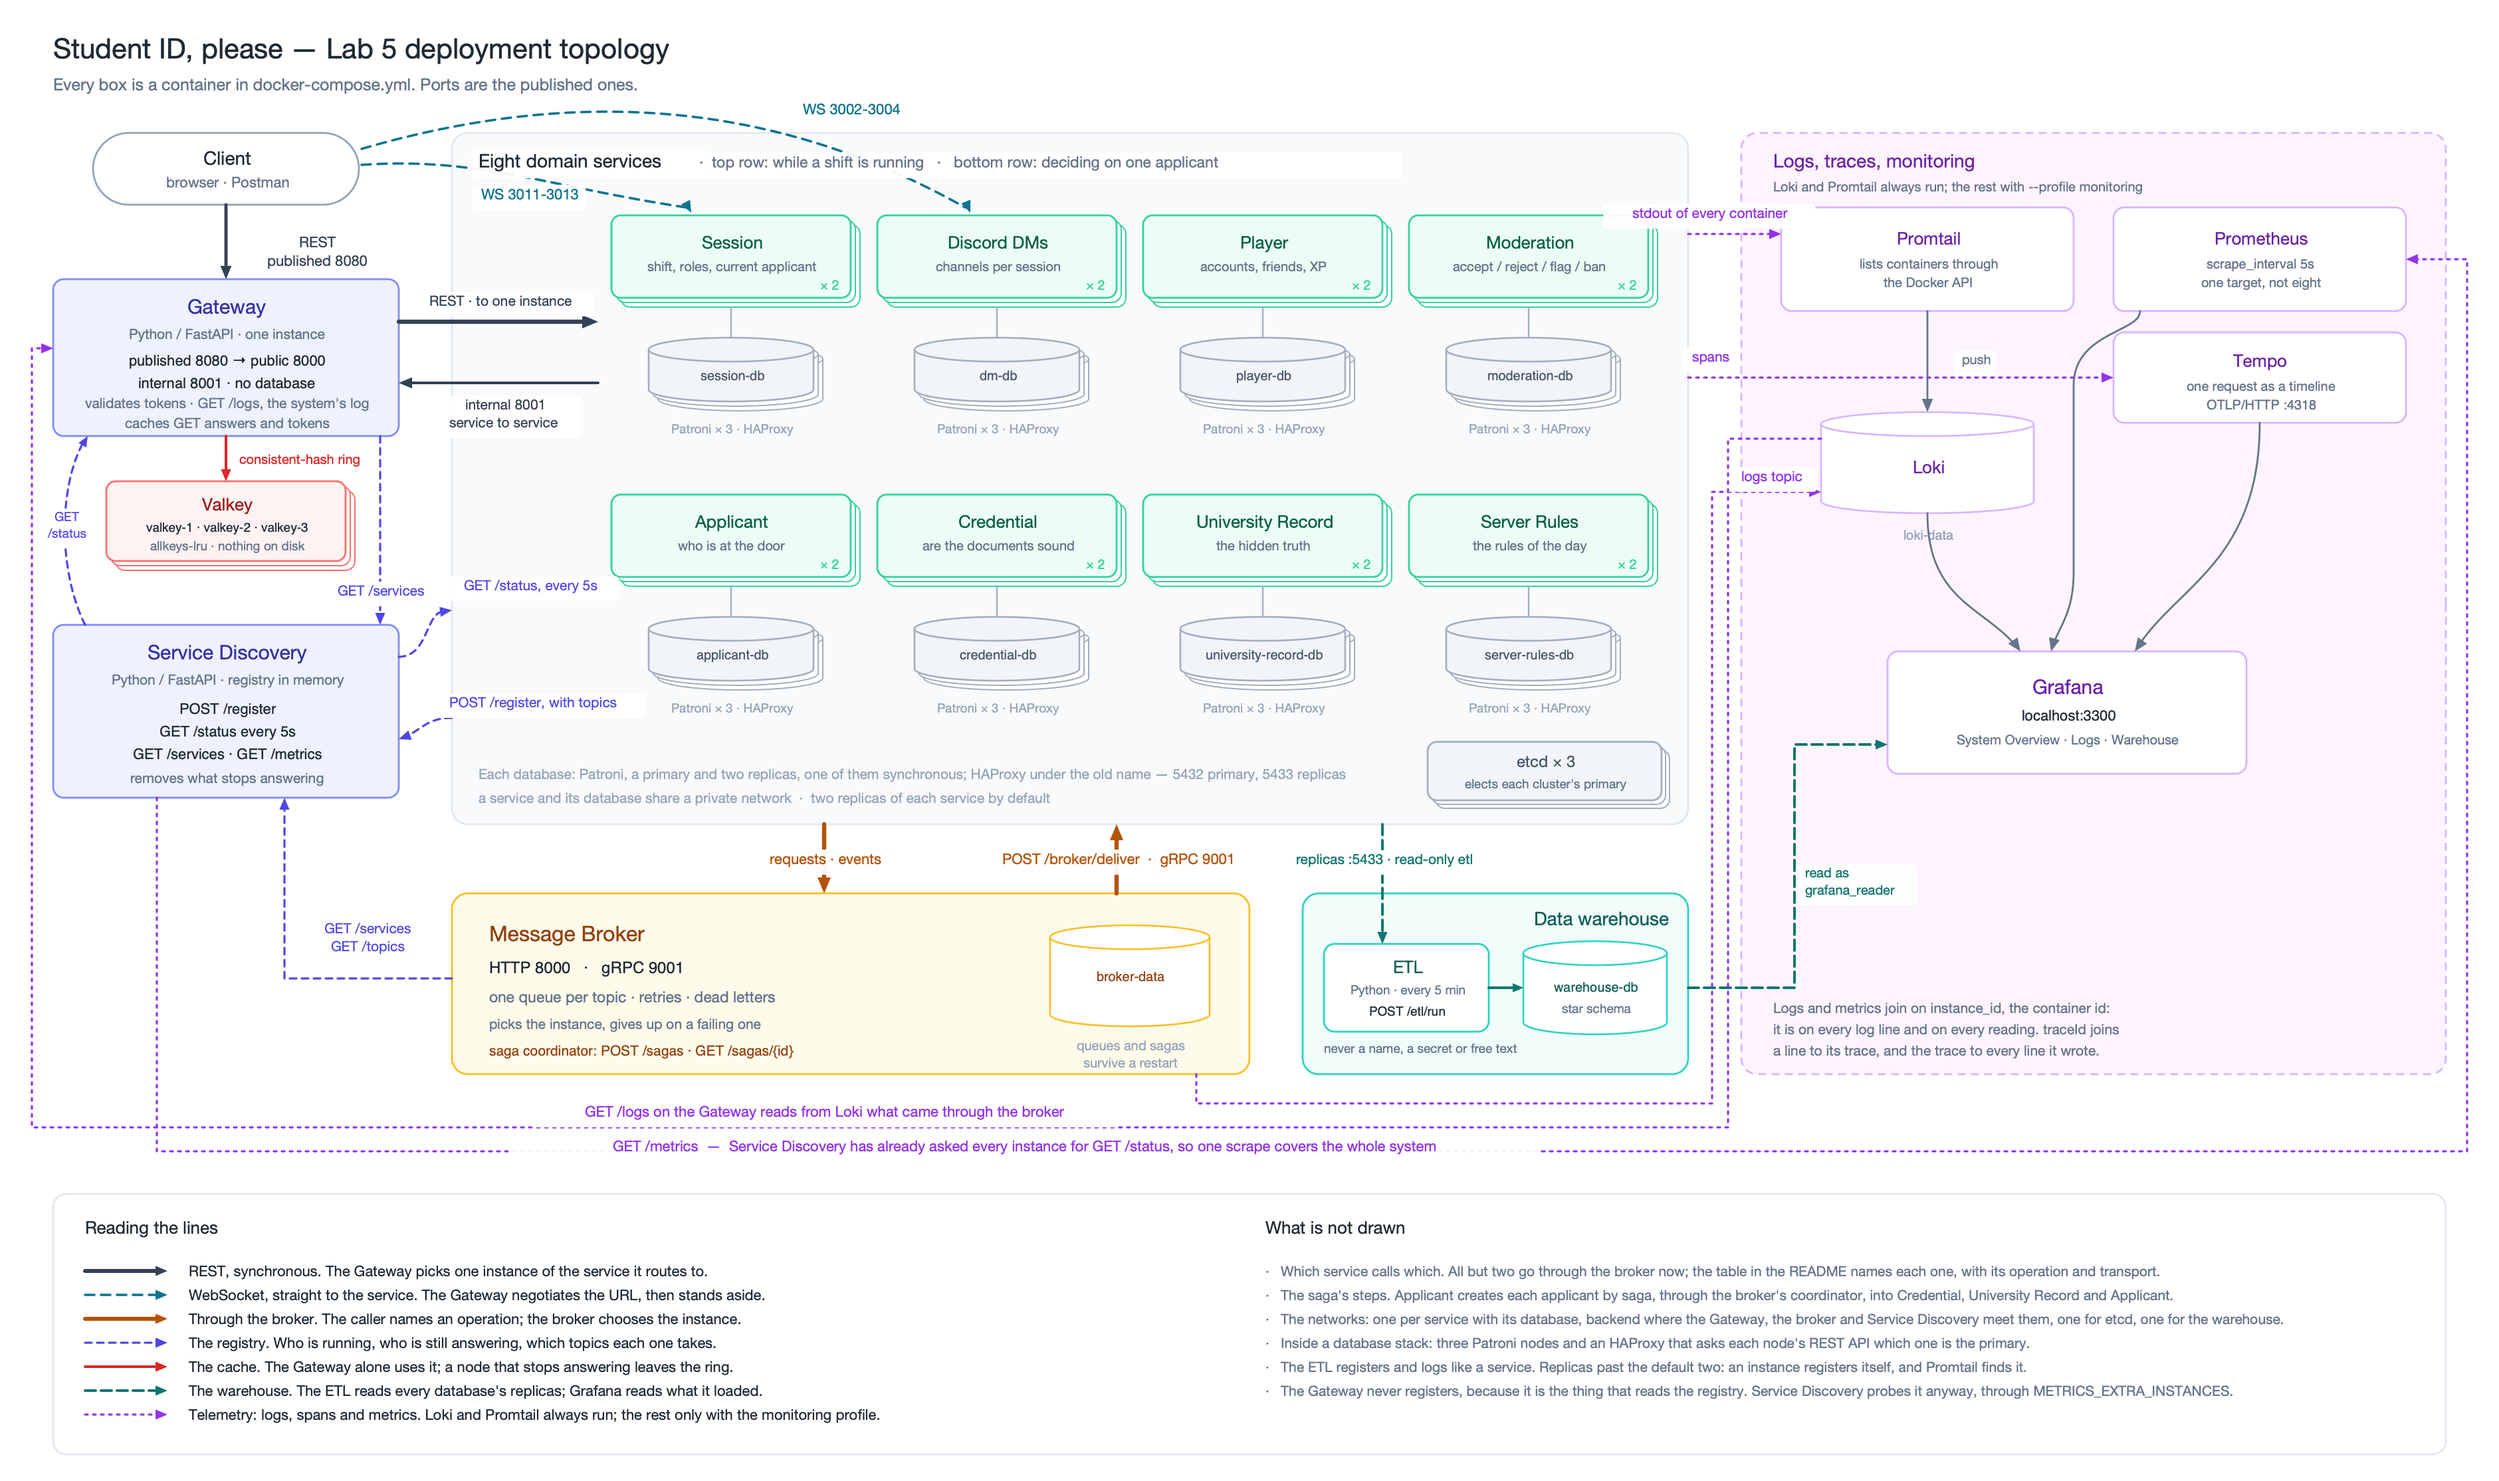
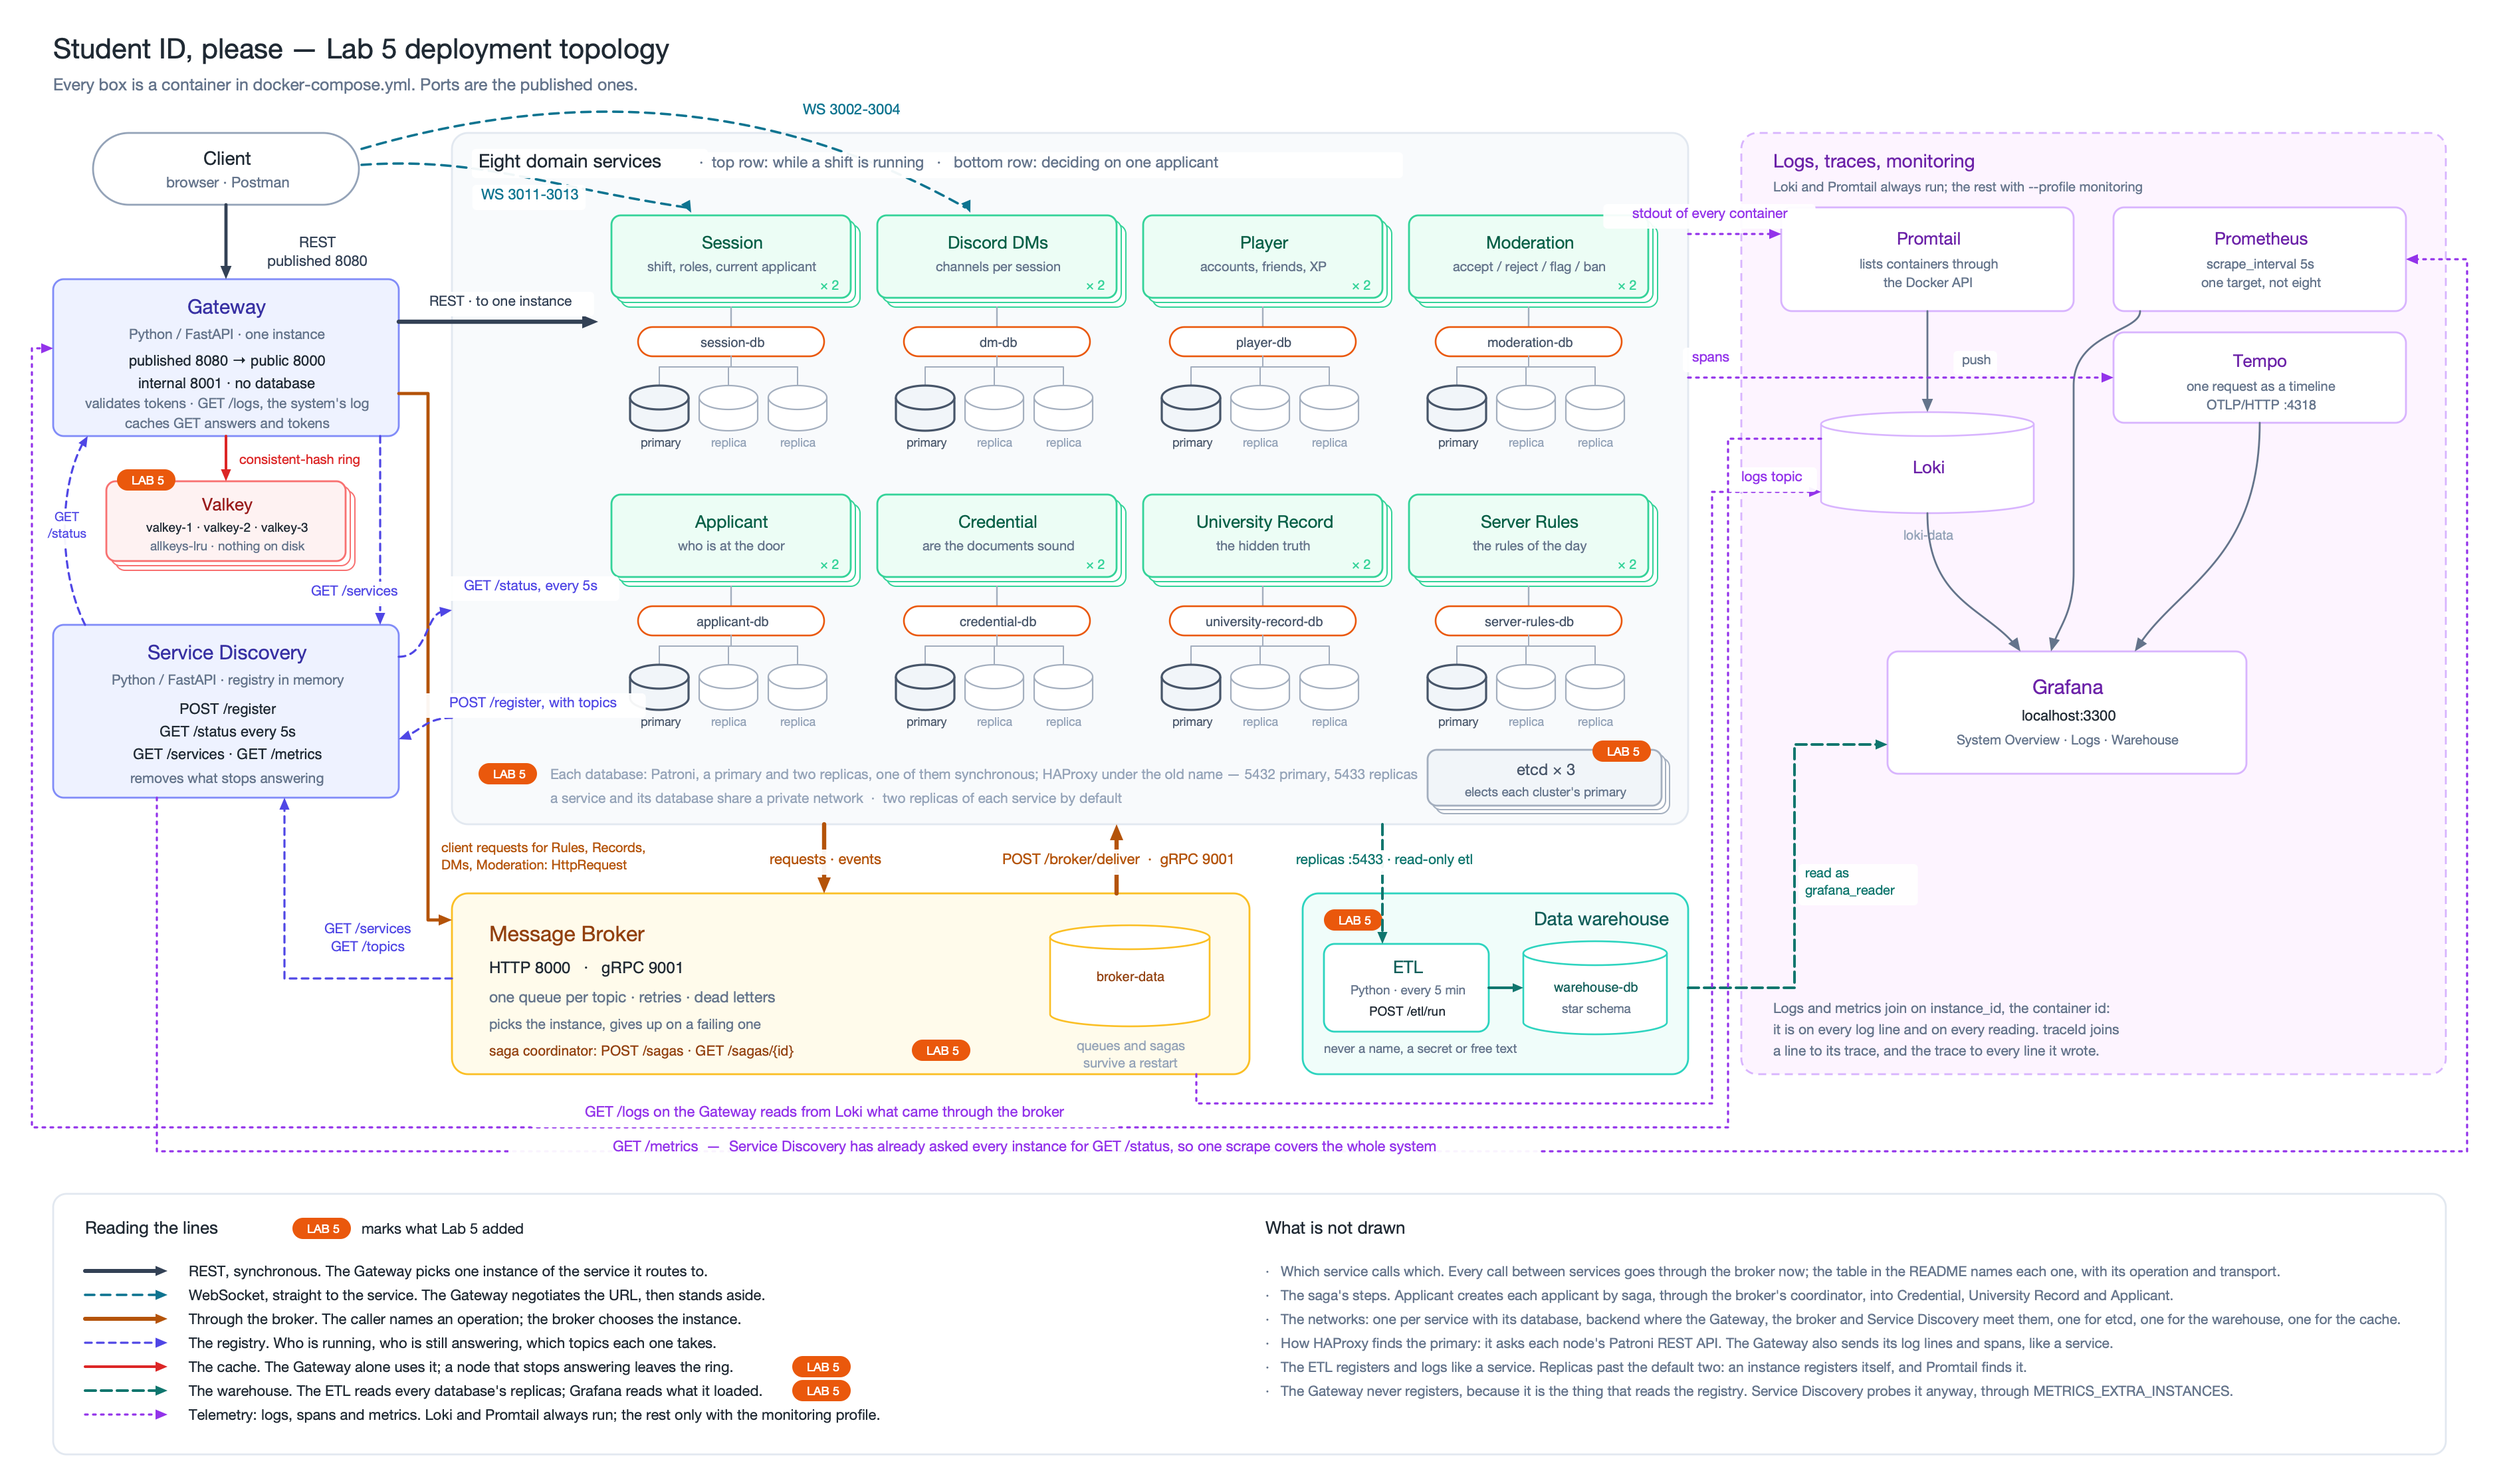
Mark what Lab 5 added in the diagram, and draw the calls as they are now
The Lab 5 diagram kept Lab 4's layout, so its changes were easy to miss.
What Lab 5 added now carries an orange LAB 5 tag (Valkey, etcd, the saga
coordinator, the warehouse, the databases, and the cache and warehouse
lines in the legend), and each database is drawn as what it is: HAProxy
under the old host name, in front of a primary and two replicas.

Since #108 no service calls another through gateway:8001, so that arrow
goes; the Gateway's client requests for Server Rules, University Record,
Discord DMs and Moderation travel through the broker as HttpRequest, a line
the Lab 4 diagram never had. "What is not drawn" follows: every call between
services goes through the broker, and the cache has its own network. The
README says what the tag marks.

diff --git a/docs/architecture-lab5.py b/docs/architecture-lab5.py
@@ -105,6 +105,16 @@ def label(x, y, lines, size=11.5, fill=None, anchor="middle", font=FONT, weight=
 
 
 
+NEW_F = "#EA580C"
+
+
+def tag(x, y, s="LAB 5"):
+    """A small filled tag on what Lab 5 added."""
+    w = len(s) * 6.4 + 12
+    add(f'<rect x="{x}" y="{y}" width="{w:.1f}" height="16" rx="8" ry="8" fill="{NEW_F}"/>')
+    text(x + w / 2, y + 11.5, s, 9, "#FFFFFF", "bold", "middle")
+
+
 # ---------------------------------------------------------------- canvas ----
 add(f'<svg xmlns="http://www.w3.org/2000/svg" width="{W}" height="{H}" '
     f'viewBox="0 0 {W} {H}">')
@@ -137,6 +147,7 @@ rect(VX, VY, VW, VH, CACHE_F, CACHE_S, r=7)
 text(VX + VW / 2, VY + 22, "Valkey", 13, CACHE_T, "bold", "middle")
 text(VX + VW / 2, VY + 38, "valkey-1 · valkey-2 · valkey-3", 9.5, INK, "normal", "middle", MONO)
 text(VX + VW / 2, VY + 52, "allkeys-lru · nothing on disk", 9.5, MUTED, "normal", "middle")
+tag(VX + 8, VY - 9)
 
 SY, SH = 470, 130
 rect(40, SY, 260, SH, PLAT_F, PLAT_S)
@@ -179,31 +190,39 @@ for by, cells in ROWS:
         text(cx + CW / 2, by + 25, name, 13, SVC_T, "bold", "middle")
         text(cx + CW / 2, by + 42, blurb, 10, MUTED, "normal", "middle")
         text(cx + CW - 10, by + 56, "× 2", 10, SVC_S, "bold", "end")
-        # The database: three Patroni nodes behind one HAProxy, drawn as one
-        # stack, like a service's replicas.
-        dy = by + 92
-        line(f"M {cx+CW/2},{by+69} V {dy}", DB_S, 1.2)
-        cylinder(cx + 28 + 7, dy + 7, CW - 56, 48, "#FFFFFF", DB_S, 1)
-        cylinder(cx + 28 + 3.5, dy + 3.5, CW - 56, 48, "#FFFFFF", DB_S, 1)
-        cylinder(cx + 28, dy, CW - 56, 48, DB_F, DB_S)
-        text(cx + CW / 2, dy + 32, db, 10, DB_T, "normal", "middle", MONO)
-        text(cx + CW / 2, dy + 72, "Patroni × 3 · HAProxy", 9.5, FAINT, "normal", "middle")
+        # The database: HAProxy under the old host name, in front of three
+        # Patroni nodes, the primary and two replicas.
+        hy = by + 84
+        line(f"M {cx+CW/2},{by+69} V {hy}", DB_S, 1.2)
+        rect(cx + 20, hy, CW - 40, 22, "#FFFFFF", NEW_F, r=11, sw=1.3)
+        text(cx + CW / 2, hy + 15, db, 10, DB_T, "normal", "middle", MONO)
+        cy = hy + 44
+        for i, (role, fill, stroke) in enumerate((("primary", DB_F, DB_T),
+                                                  ("replica", "#FFFFFF", DB_S),
+                                                  ("replica", "#FFFFFF", DB_S))):
+            x0 = cx + 14 + i * 52
+            line(f"M {cx+CW/2},{hy+22} V {hy+30} H {x0+22} V {cy}", DB_S, 1)
+            cylinder(x0, cy, 44, 34, fill, stroke, 1.6 if i == 0 else 1.1)
+            text(x0 + 22, cy + 46, role, 9, DB_T if i == 0 else FAINT,
+                 "bold" if i == 0 else "normal", "middle")
         svc[name] = (cx, by, CW, 62)
 
-text(PX + 20, PY + PH - 34,
+tag(PX + 20, PY + PH - 46)
+text(PX + 74, PY + PH - 34,
      "Each database: Patroni, a primary and two replicas, one of them synchronous; HAProxy under "
      "the old name — 5432 primary, 5433 replicas", 10.5, FAINT)
-text(PX + 20, PY + PH - 16,
+text(PX + 74, PY + PH - 16,
      "a service and its database share a private network  ·  two replicas of each service "
      "by default", 10.5, FAINT)
 
 # etcd: the three members every Patroni node keeps its lease in.
-EX, EY, EW, EH = PX + PW - 196, PY + PH - 62, 176, 44
+EX, EY, EW, EH = PX + PW - 196, PY + PH - 56, 176, 42
 rect(EX + 6, EY + 6, EW, EH, "#FFFFFF", DB_S, r=7, sw=1)
 rect(EX + 3, EY + 3, EW, EH, "#FFFFFF", DB_S, r=7, sw=1)
 rect(EX, EY, EW, EH, DB_F, DB_S, r=7)
 text(EX + EW / 2, EY + 19, "etcd × 3", 12, DB_T, "bold", "middle")
 text(EX + EW / 2, EY + 35, "elects each cluster's primary", 9.5, MUTED, "normal", "middle")
+tag(EX + EW - 52, EY - 7)
 
 # ----------------------------------------------------------------- broker ---
 BX, BY, BW, BH = 340, PY + PH + 52, 600, 136
@@ -214,6 +233,7 @@ text(BX + 28, BY + 82, "one queue per topic · retries · dead letters", 11.5, M
 text(BX + 28, BY + 102, "picks the instance, gives up on a failing one", 10.5, MUTED)
 text(BX + 28, BY + 122, "saga coordinator: POST /sagas · GET /sagas/{id}", 10.5, BRK_T,
      "normal", "start", MONO)
+tag(BX + 346, BY + 110)
 cylinder(BX + BW - 150, BY + 24, 120, 76, "#FFFFFF", BRK_S)
 text(BX + BW - 90, BY + 66, "broker-data", 10, BRK_T, "normal", "middle", MONO)
 text(BX + BW - 90, BY + 118, "queues and sagas", 10, FAINT, "normal", "middle")
@@ -225,6 +245,7 @@ text(BX + BW - 90, BY + 131, "survive a restart", 10, FAINT, "normal", "middle")
 WX, WY, WW, WH = 980, BY, 290, 136
 rect(WX, WY, WW, WH, DW_F, DW_S, r=12)
 text(WX + WW - 16, WY + 24, "Data warehouse", 14, DW_T, "bold", "end")
+tag(WX + 16, WY + 12)
 
 ETL = (WX + 16, WY + 38, 124, 66)
 rect(*ETL, "#FFFFFF", DW_S, r=8)
@@ -301,12 +322,16 @@ arrow(f"M 272,112 C 430,66 580,74 {dx},{PY+56}", C_WS, (dx + 4, PY + 60), 68, 1.
 label(398, 150, ["WS 3011-3013"], 11, C_WS, "middle")
 label(640, 86, ["WS 3002-3004"], 11, C_WS, "middle")
 
-# Gateway -> services, and back in through the internal listener: the calls
-# between services that did not move to the broker are still REST through 8001.
+# Gateway -> services. No service calls another through the Gateway's internal
+# port any more: every call between services goes through the broker.
 arrow("M 300,242 H 442", C_REST, (450, 242), 0, 3.2, size=12)
 label(376, 230, ["REST · to one instance"], 10.5, C_REST, "middle")
-arrow("M 450,288 H 308", C_REST, (300, 288), 180, 2.0)
-label(378, 308, ["internal 8001", "service to service"], 10.5, C_REST, "middle")
+
+# Gateway -> broker: the client requests for the services in BROKER_SERVICES
+# travel as HttpRequest envelopes. Down the gap left of the services panel.
+arrow(f"M 300,296 H 322 V {BY+20} H {BX-6}", C_BROKER, (BX, BY + 20), 0, 2.4, size=10)
+label(332, PY + PH + 21, ["client requests for Rules, Records,", "DMs, Moderation: HttpRequest"],
+      10, C_BROKER, "start")
 
 # Gateway -> Valkey: GET answers and verified tokens, on the Gateway's ring
 arrow(f"M 170,{GY+GH} V {VY-6}", C_CACHE, (170, VY), 90, 2.0, size=9)
@@ -329,7 +354,7 @@ label(MX + 48, MY + 560, ["read as", "grafana_reader"], 10, C_DW, "start")
 
 # Gateway <-> Service Discovery, past the cache on its right
 arrow(f"M 286,{GY+GH} V {SY-6}", C_DISC, (286, SY), 90, 1.6, "5 4", 9)
-label(286, SY - 22, ["GET /services"], 10.5, C_DISC, "middle")
+label(266, SY - 22, ["GET /services"], 10.5, C_DISC, "middle")
 arrow(f"M 64,{SY} C 44,{SY-40} 44,{GY+GH+40} 62,{GY+GH+6}", C_DISC, (66, GY + GH), 300, 1.6,
       "5 4", 8)
 label(50, VY + 30, ["GET", "/status"], 9.5, C_DISC, "middle")
@@ -385,6 +410,8 @@ label(PX + 186, PY + 26,
 LY = YB2 + 32
 rect(40, LY, W - 80, 196, "#FFFFFF", PANEL_S, r=10)
 text(64, LY + 30, "Reading the lines", 13, INK, "bold")
+tag(220, LY + 18)
+text(272, LY + 30, "marks what Lab 5 added", 11, INK)
 
 legend = [
     (C_REST, None, 3.0, "REST, synchronous. The Gateway picks one instance of the service it routes to."),
@@ -400,13 +427,15 @@ for i, (color, dash, sw, caption) in enumerate(legend):
     line(f"M 64,{ly} H 118", color, sw, dash)
     head(126, ly, 0, color, 9)
     text(142, ly + 4, caption, 11, INK)
+    if color in (C_CACHE, C_DW):
+        tag(596, ly - 8)
 
 text(952, LY + 30, "What is not drawn", 13, INK, "bold")
 notes = [
-    "Which service calls which. All but two go through the broker now; the table in the README names each one, with its operation and transport.",
+    "Which service calls which. Every call between services goes through the broker now; the table in the README names each one, with its operation and transport.",
     "The saga's steps. Applicant creates each applicant by saga, through the broker's coordinator, into Credential, University Record and Applicant.",
-    "The networks: one per service with its database, backend where the Gateway, the broker and Service Discovery meet them, one for etcd, one for the warehouse.",
-    "Inside a database stack: three Patroni nodes and an HAProxy that asks each node's REST API which one is the primary.",
+    "The networks: one per service with its database, backend where the Gateway, the broker and Service Discovery meet them, one for etcd, one for the warehouse, one for the cache.",
+    "How HAProxy finds the primary: it asks each node's Patroni REST API. The Gateway also sends its log lines and spans, like a service.",
     "The ETL registers and logs like a service. Replicas past the default two: an instance registers itself, and Promtail finds it.",
     "The Gateway never registers, because it is the thing that reads the registry. Service Discovery probes it anyway, through METRICS_EXTRA_INSTANCES.",
 ]

diff --git a/README.md b/README.md
@@ -85,11 +85,14 @@ Lab 5 deployment topology. Every box is a container in `docker-compose.yml`:
 Seven kinds of line, because the system now has seven ways for one container
 to reach another: REST through the Gateway, a WebSocket straight to the
 service, a call through the Message Broker, registry traffic, the cache, the
-warehouse, and telemetry. Since Lab 4, every database is a Patroni cluster
-behind HAProxy with etcd electing its primary ([Replicated
-databases](#replicated-databases)), the broker coordinates the applicant saga,
-the Gateway caches in three Valkey nodes ([Cache](#cache)), and the ETL loads
-the warehouse that Grafana reads ([Warehouse and ETL](#warehouse-and-etl)).
+warehouse, and telemetry. What Lab 5 added carries an orange **LAB 5** tag:
+every database is a Patroni cluster, a primary and two replicas behind HAProxy,
+with etcd electing the primary ([Replicated databases](#replicated-databases)),
+the broker coordinates the applicant saga, the Gateway caches in three Valkey
+nodes ([Cache](#cache)), and the ETL loads the warehouse that Grafana reads
+([Warehouse and ETL](#warehouse-and-etl)). No service calls another through the
+Gateway's internal port any more: the calls between services, and the client
+requests for the services in `BROKER_SERVICES`, go through the broker.
 The drawing is generated — `python3 docs/architecture-lab5.py` rebuilds the
 PNG from the layout in that file, so the diagram cannot quietly fall behind the
 Compose file it describes.
